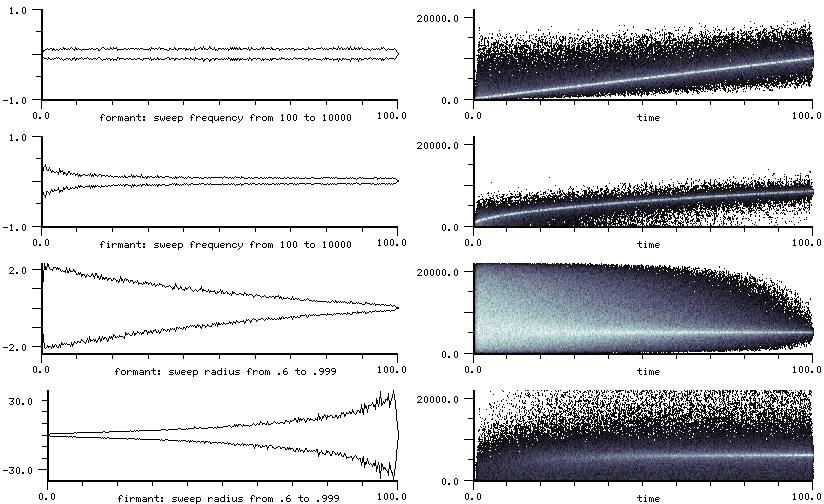
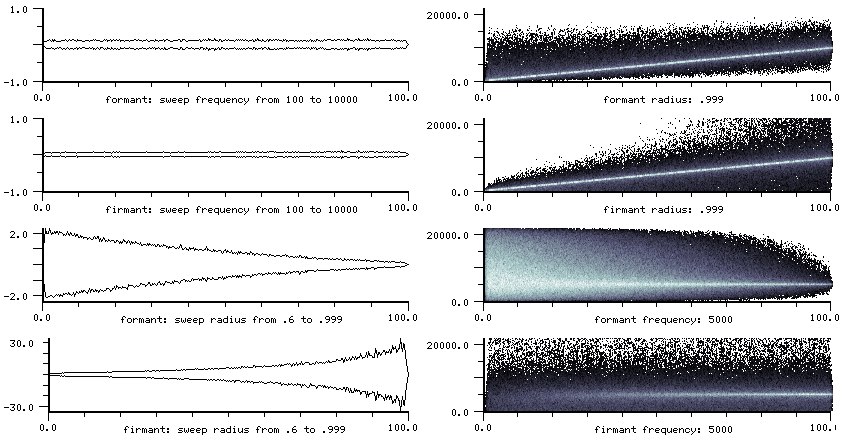
bugs

diff --git a/sndclm.html b/sndclm.html
@@ -3461,12 +3461,15 @@ alterations to the filters:
 as the response at that frequency (in terms of a sampling rate of 1.0):
 </p>
 
-<table border=0 bgcolor="#fafafa" hspace=40><tr><td>
+<table border=0 hspace=20>
+<tr><td bgcolor="#fafafa">
 <pre>
 (define (test-filter flt)
   (let* ((osc (<a class=quiet href="#make-oscil">make-oscil</a> 0.0))
 	 (samps (<a class=quiet href="#secondstosamples">seconds-&gt;samples</a> 0.5))
-	 (ramp (<a class=quiet href="#make-env">make-env</a> '(0 0 1 1) :scaler (<a class=quiet href="#hztoradians">hz-&gt;radians</a> samps) :length samps)))
+	 (ramp (<a class=quiet href="#make-env">make-env</a> '(0 0 1 1) 
+                     :scaler (<a class=quiet href="#hztoradians">hz-&gt;radians</a> samps) 
+                     :length samps)))
     (<a class=quiet href="sndscm.html#wsdoc">with-sound</a> ()
       (do ((i 0 (1+ i)))
 	  ((= i samps))
@@ -3477,8 +3480,37 @@ as the response at that frequency (in terms of a sampling rate of 1.0):
 (test-filter (make-two-pole 0.1 0.1 0.9))
 (test-filter (make-two-zero 0.5 0.2 0.3))
 </pre>
-</td></tr></table>
+</td><td>
+<img src="2pole.png" alt="simple filters">
+</td>
+</tr>
+</table>
 
+
+<!--
+(define (test-filter flt chan)
+  (let* ((osc (make-oscil 0.0))
+	 (samps (seconds->samples 0.5))
+	 (ramp (make-env '(0 0 1 1) :scaler (hz->radians samps) :length samps)))
+
+      (do ((i 0 (1+ i)))
+	  ((= i samps))
+        (out-any i (flt (oscil osc (env ramp))) chan))))
+
+(with-sound (:channels 4)
+  (test-filter (make-one-zero 0.5 0.5) 0)
+  (test-filter (make-one-pole 0.1 -0.9) 1)
+  (test-filter (make-two-pole 0.1 0.1 0.9) 2)
+  (test-filter (make-two-zero 0.5 0.2 0.3) 3))
+
+(define (fixup-axes)
+  (set! (selected-data-color) (make-color 0 0 0))
+  (set! (selected-graph-color) (make-color 1 1 1))
+  (set! (x-axis-label 0 0) "(make-one-zero 0.5 0.5)")
+  (set! (x-axis-label 0 1) "(make-one-pole 0.1 -0.9)")
+  (set! (x-axis-label 0 2) "(make-two-pole 0.1 0.1 0.9)")
+  (set! (x-axis-label 0 3) "(make-two-zero 0.5 0.2 0.3)"))
+-->
 
 <br><br>
 
@@ -3514,10 +3546,15 @@ as the response at that frequency (in terms of a sampling rate of 1.0):
 
 </td><td>
 <pre>
+    formant:
     y(n) = x(n) - 
            r * x(n-2) + 
-           2 * r * cos(frq-in-rads) * y(n-1) - 
+           2 * r * cos(frq) * y(n-1) - 
            r * r * y(n-2)
+
+    firmant:
+    x(n+1) = r * (x(n) - 2 * sin(frq/2) * y(n)) + input
+    y(n+1) = r * (2 * sin(frq/2) * x(n+1) + y(n))
 </pre>
 </td></tr></table>
 
@@ -3538,6 +3575,9 @@ The radius can be set in terms of desired bandwidth in Hz via:
 
 <p>If you change the radius, the peak amplitude 
 of the output changes.  
+The firmant generator is the "modified coupled form" of the formant generator,
+developed by Max Mathews and Julius Smith in "Methods for Synthesizing Very High Q Parametrically
+Well Behaved Two Pole Filters".
 Here are some graphs showing the formant and firmant filtering white noise
 as we sweep either the frequency or the radius:
 </p>

diff --git a/clm.c b/clm.c
@@ -4935,7 +4935,7 @@ static Float firmant_set_frequency(mus_any *ptr, Float freq_in_hz)
   return(freq_in_hz);
 }
 
-static Float firmant_radius(mus_any *ptr) {return(mus_radians_to_hz(((frm *)ptr)->radius));}
+static Float firmant_radius(mus_any *ptr) {return(((frm *)ptr)->radius);}
 
 static Float firmant_set_radius(mus_any *ptr, Float radius)
 {
@@ -4957,8 +4957,8 @@ Float mus_firmant(mus_any *ptr, Float input)
 {
   frm *gen = (frm *)ptr;
   Float xn1, yn1;
-  xn1 = gen->gain * input + gen->radius * (gen->x1 - gen->fdbk * gen->y1);
-  yn1 = gen->rr * xn1 + gen->radius * gen->y1;
+  xn1 = gen->gain * input + gen->radius * (gen->x1         - gen->fdbk * gen->y1);
+  yn1 =                     gen->radius * (gen->fdbk * xn1 + gen->y1);
   gen->x1 = xn1;
   gen->y1 = yn1;
   return(yn1);
@@ -11199,7 +11199,7 @@ void init_mus_module(void)
  *      removed gain arg from mus_make_formant and reversed order of frequency and radius args
  *      fixed incorrect gain calculation in formant
  *      removed mus-make-formant (use mus-scaler)
- *   firmant (Mathews/Smith form of the formant generator) [todo: tests? lisp rb fs firmant/formant]
+ *   firmant (Mathews/Smith form of the formant generator) [todo: mus.lisp, test against mfilter]
  *   CL/CLM: moved really old, obsolete stuff to clm3.lisp
  *   make-two-pole|zero freq r in the "polar" case (reversed args)
 
